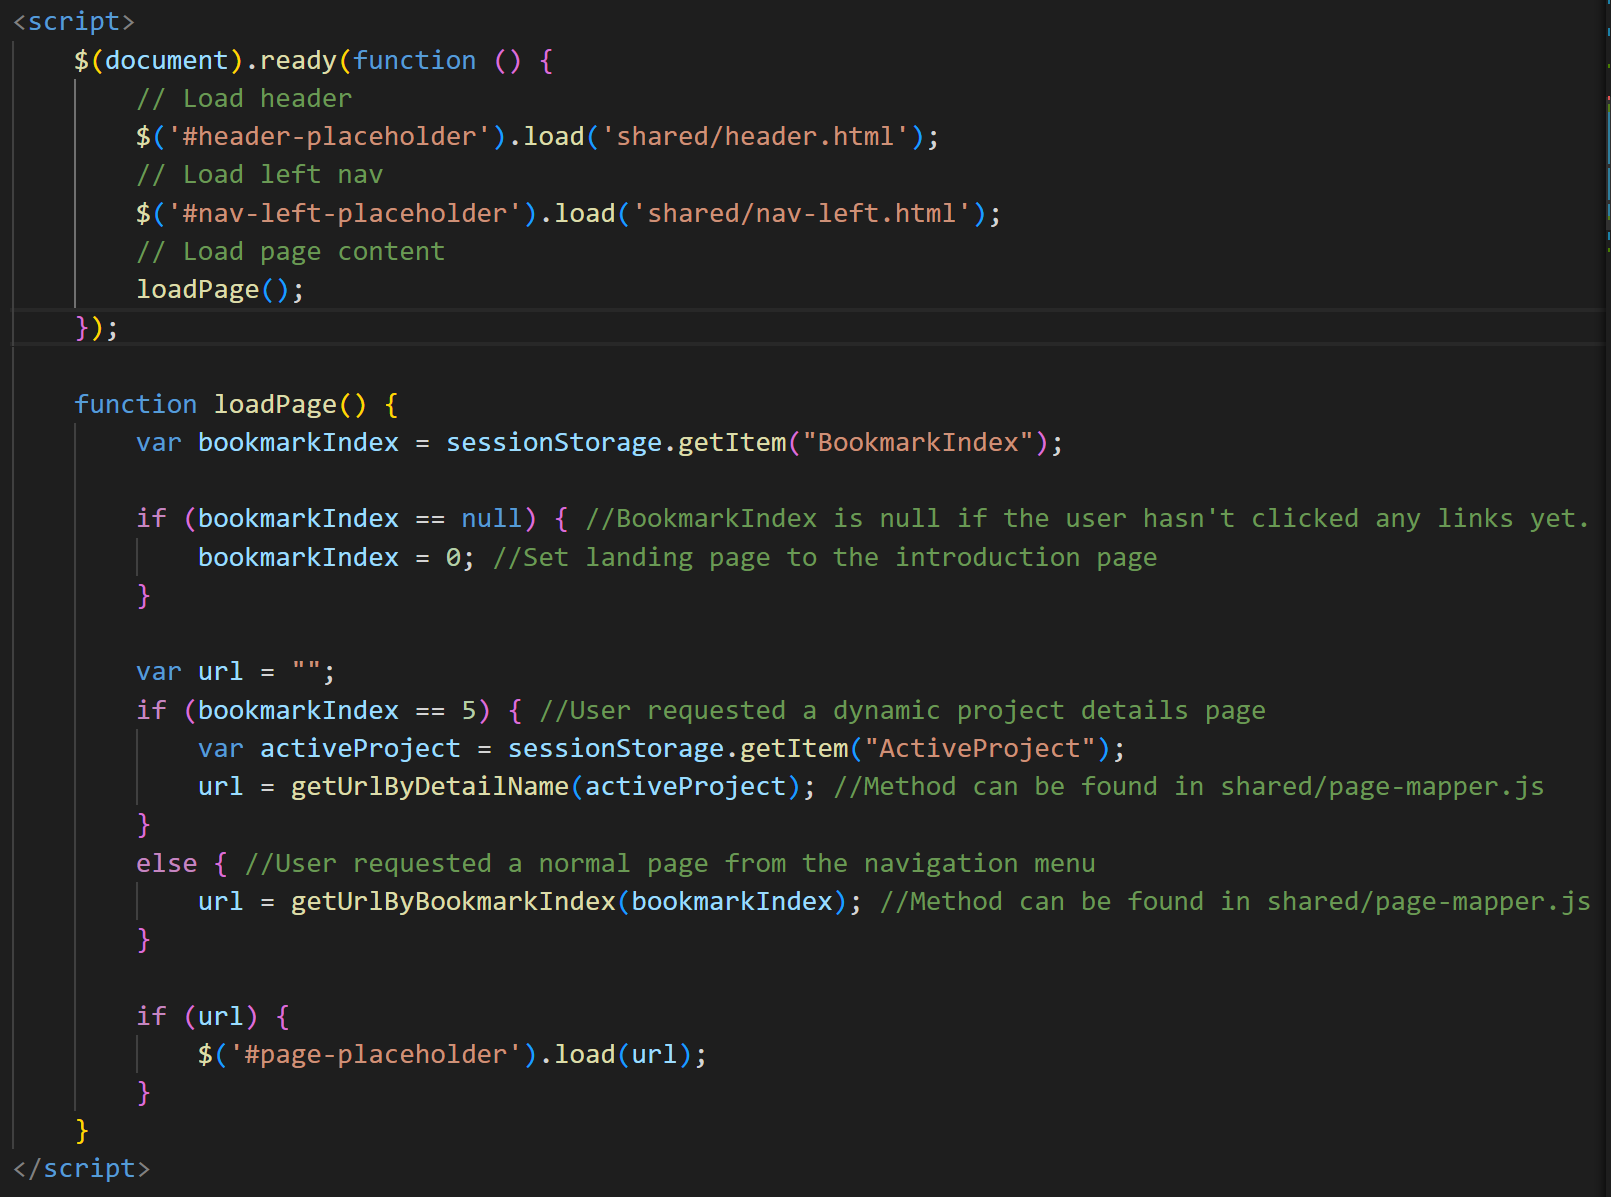
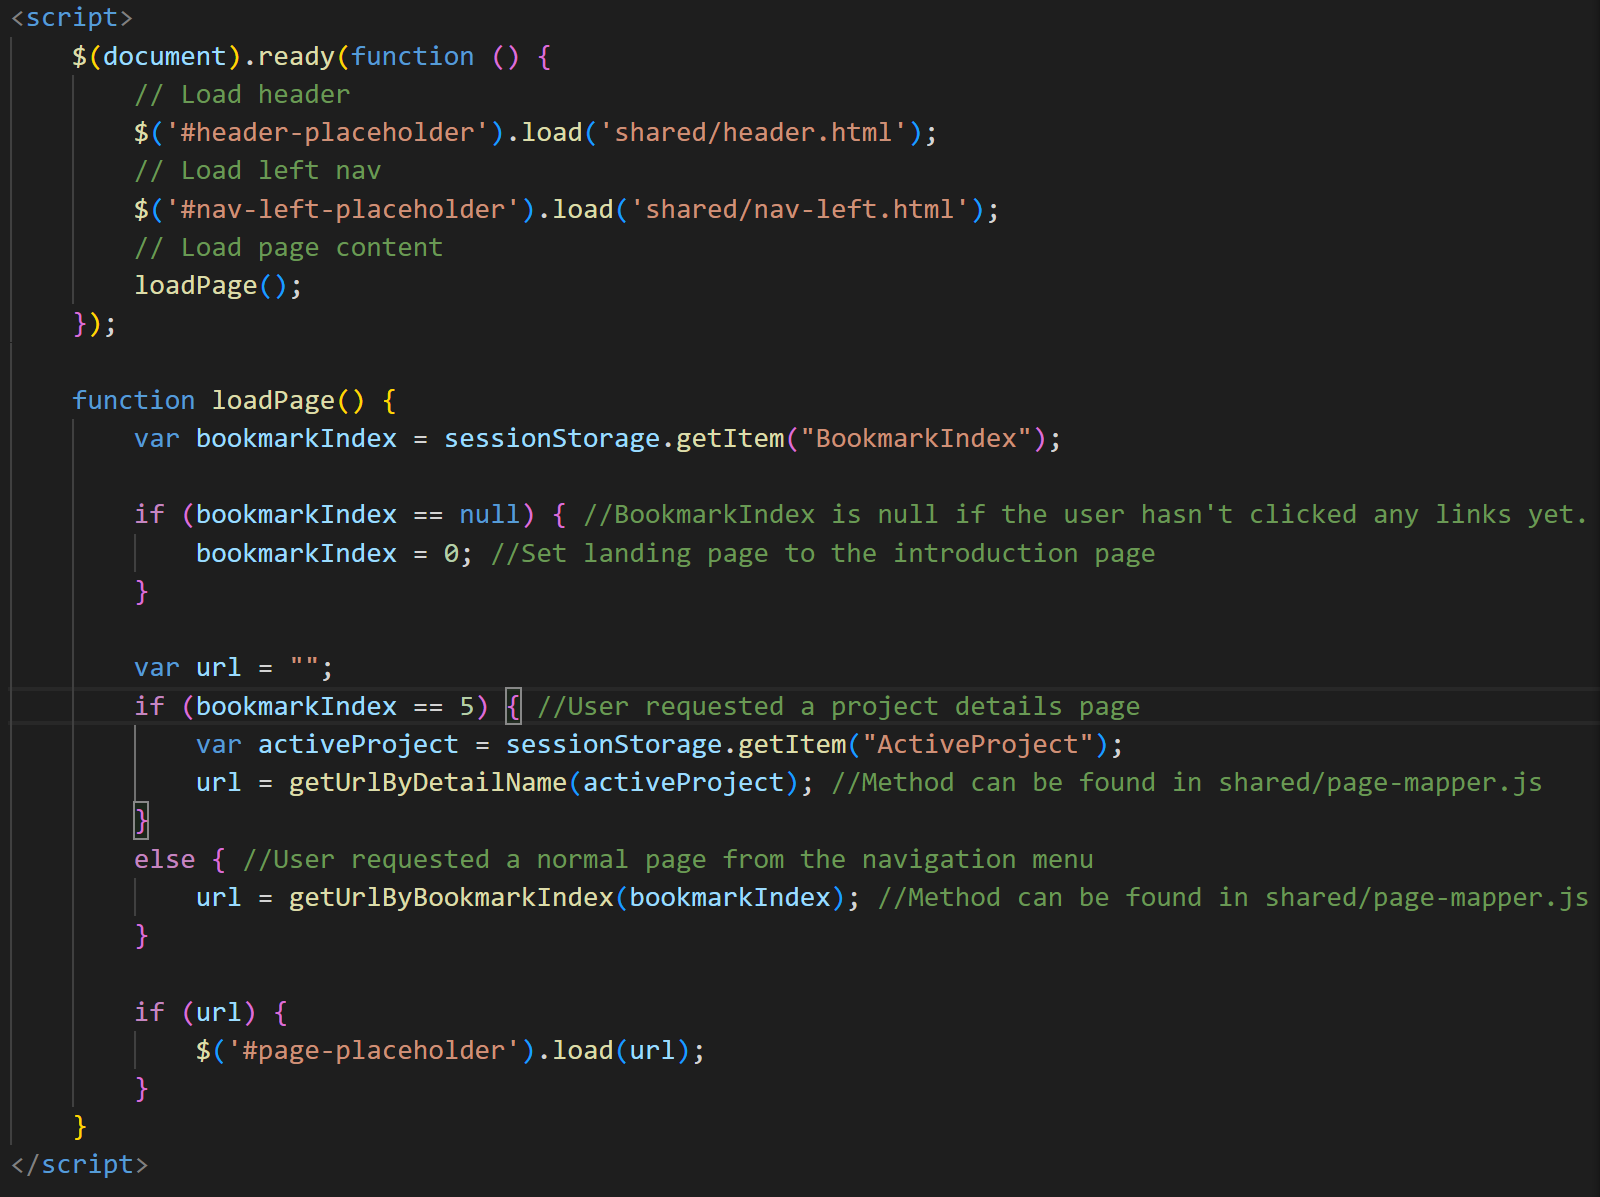
Updated code snippet: How the pages are loaded.

diff --git a/index.html b/index.html
@@ -47,7 +47,7 @@
             }
 
             var url = "";
-            if (bookmarkIndex == 5) { //User requested a dynamic project details page
+            if (bookmarkIndex == 5) { //User requested a project details page
                 var activeProject = sessionStorage.getItem("ActiveProject");
                 url = getUrlByDetailName(activeProject); //Method can be found in shared/page-mapper.js 
             }

diff --git a/pages/details/my-portfolio-website.html b/pages/details/my-portfolio-website.html
@@ -30,7 +30,7 @@
     A downside of this approach is it becomes impossible to debug code, as the javascript code is executed before the DOM element is loaded. The console.log method still works, but step-by-step debugging isn't possible.
 </p>
 
-<p>This image shows how the pages are loaded: </p>
+<p>This screenshot shows how the pages are loaded: </p>
 
 <img src="img/code_load_page.png" style="width:100%;">
 
